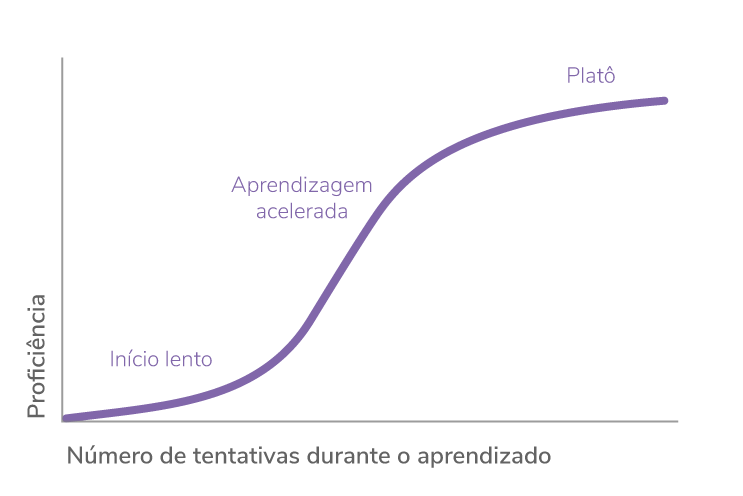
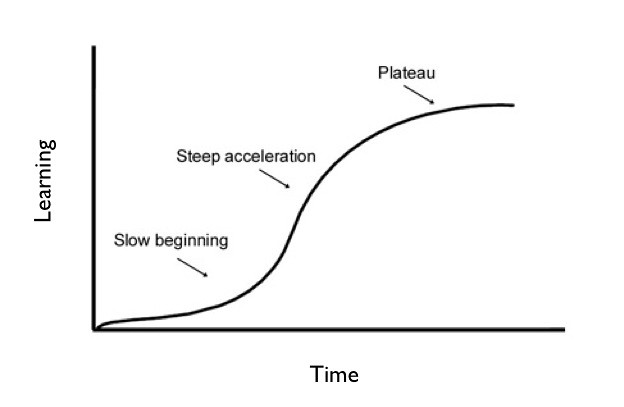
update image

diff --git a/escola-da-nuvem/aws-fundamentals/soft-skills/aula03.md b/escola-da-nuvem/aws-fundamentals/soft-skills/aula03.md
@@ -41,7 +41,7 @@ Sintomas de não pertencimento:
 
 ### Zona de Conforto X Zona de Crescimento
 
-![Zona de Conforto e Zona de Crescimento](./images/zona-de-conforto.png)
+<img src="./images/zona-de-conforto.png" alt="Zona de Conforto e Crescimento" width="400px">
 
 ### Ter sempre em mente
 
@@ -57,7 +57,7 @@ Sintomas de não pertencimento:
 
 ### Curva de aprendizagem
 
-![curva de aprendizagem](images/curva-de-aprendizagem.png)
+<img src="./images/curva-de-aprendizagem.png" alt="Curva d de aprendizagem" width="400px">
 
 ## Inteligência Emocional
 

diff --git a/escola-da-nuvem/aws-fundamentals/soft-skills/aula01.md b/escola-da-nuvem/aws-fundamentals/soft-skills/aula01.md
@@ -29,5 +29,4 @@ Para acompanhar o mercado de trabalho é necessário adotar as seguintes tendên
 
 - Competências Comportamentais
 - Competências Técnicas
-
 - Precisam estar ambas em equilíbrio
